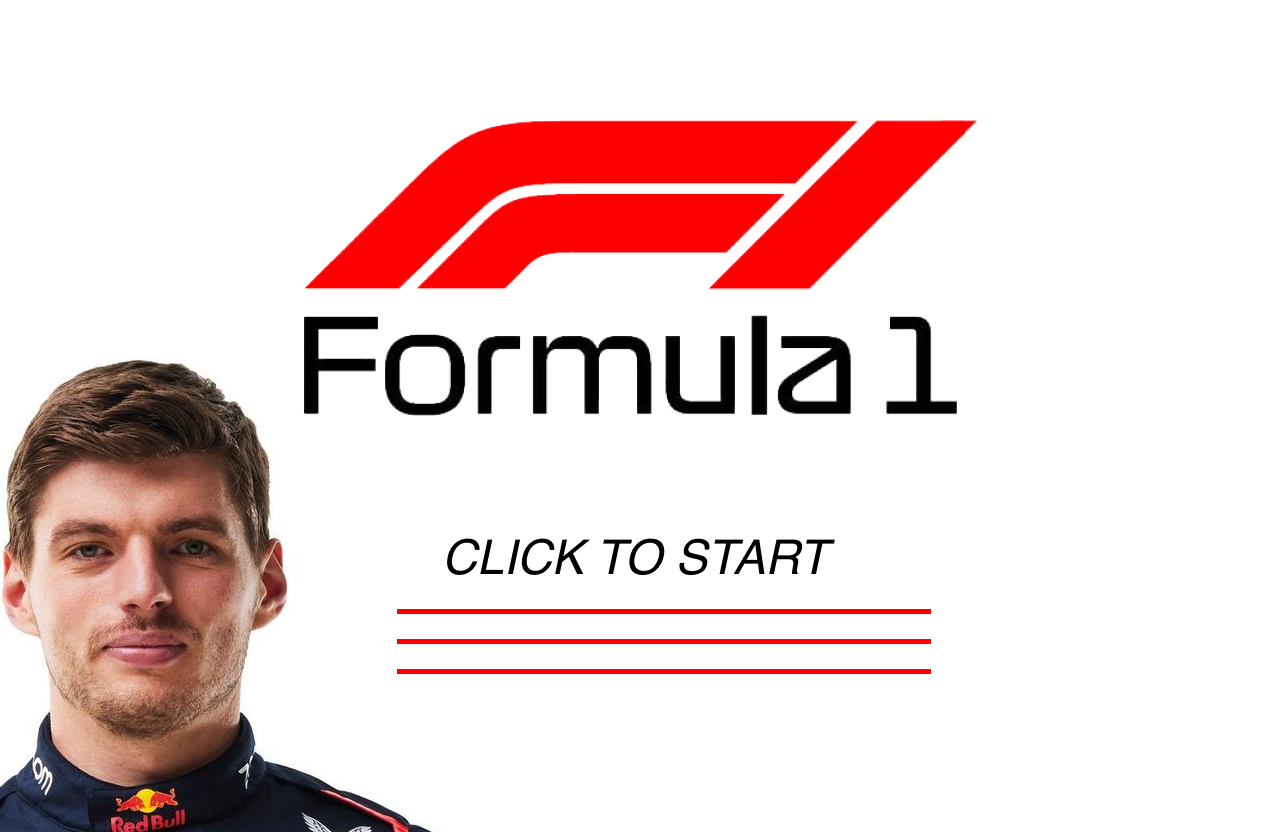
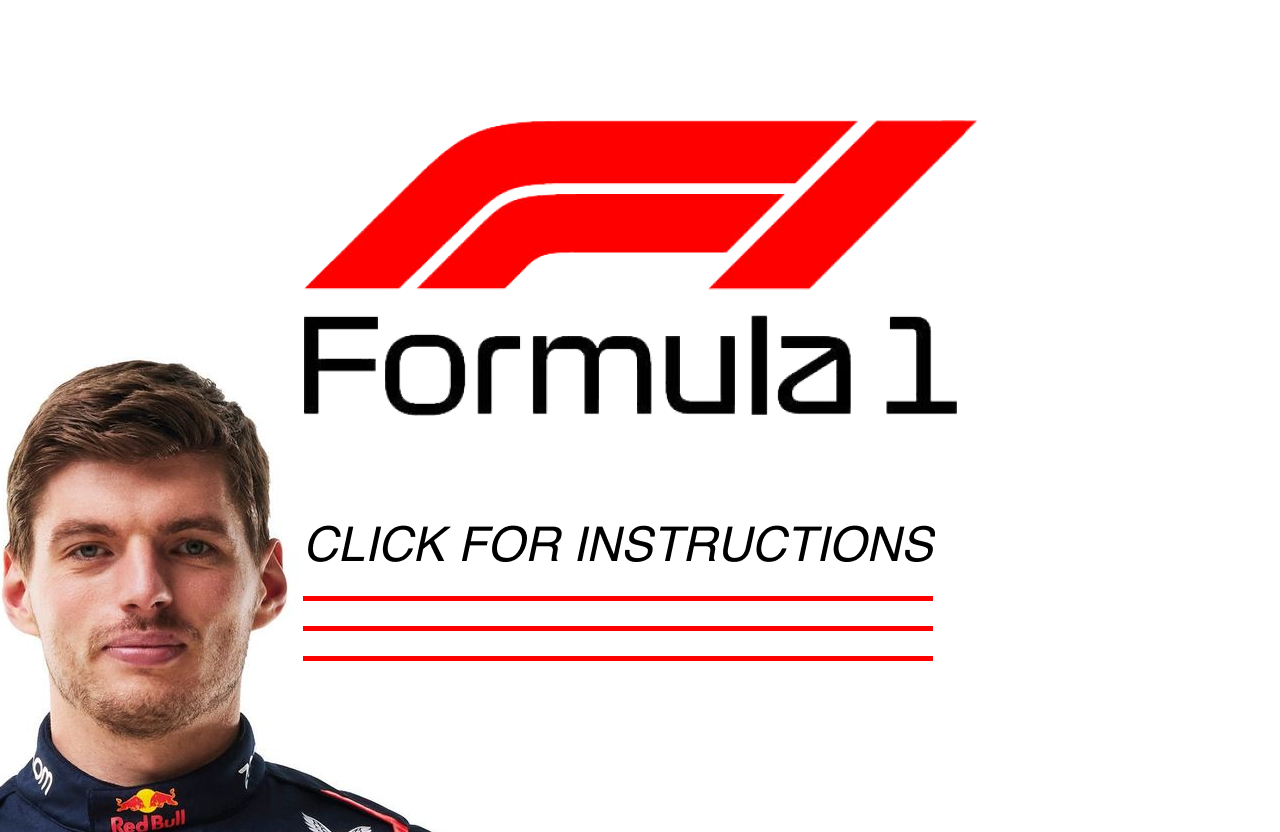
main file updateddd

Changed region(s): [[0.25, 0.625, 0.75, 0.8125]]

diff --git a/public/main.html b/public/main.html
@@ -19,6 +19,7 @@
         let gameCount = 0;
         let startTime;
         let reactionTimes = [];
+        let isWaitingForKeyPress = false;
 
         function playAudio() {
             let audio = new Audio('Max.mp3');
@@ -36,24 +37,31 @@
                 let randomImage = Math.random() < 0.5 ? 'left.png' : 'right.png';
                 document.body.style.backgroundImage = `url('${randomImage}')`;
                 startTime = Date.now();
+                isWaitingForKeyPress = true;
             }, randomDelay);
         }
 
-        function recordReaction() {
-            if (startTime) {
+        function recordReaction(event) {
+            if (isWaitingForKeyPress && (event.key === "ArrowLeft" || event.key === "ArrowRight")) {
                 let reactionTime = Date.now() - startTime;
                 reactionTimes.push(reactionTime);
                 document.body.style.backgroundImage = "url('center.png')";
                 gameCount++;
                 startTime = null;
-                showRandomBackground();
+                isWaitingForKeyPress = false;
+                if (gameCount < 5) {
+                    showRandomBackground();
+                } else {
+                    alert("Game Over! Your reaction times: " + reactionTimes.join(", ") + " ms");
+                    window.location.href = "main.html";
+                }
             }
         }
 
         document.addEventListener("DOMContentLoaded", function() {
             playAudio();
             showRandomBackground();
-            document.body.addEventListener("click", recordReaction);
+            document.addEventListener("keydown", recordReaction);
         });
     </script>
 </head>

diff --git a/public/instructions.html b/public/instructions.html
@@ -1,0 +1,29 @@
+<!DOCTYPE html>
+<html lang="en">
+<head>
+    <meta charset="UTF-8">
+    <meta name="viewport" content="width=device-width, initial-scale=1.0">
+    <title>Instructions</title>
+    <style>
+        body {
+            margin: 0;
+            height: 100vh;
+            background: url('instructions.png') no-repeat center center fixed;
+            background-size: cover;
+            display: flex;
+            justify-content: center;
+            align-items: center;
+            cursor: pointer;
+        }
+    </style>
+    <script>
+        document.addEventListener("DOMContentLoaded", function() {
+            document.body.addEventListener("click", function() {
+                window.location.href = "main.html";
+            });
+        });
+    </script>
+</head>
+<body>
+</body>
+</html>
